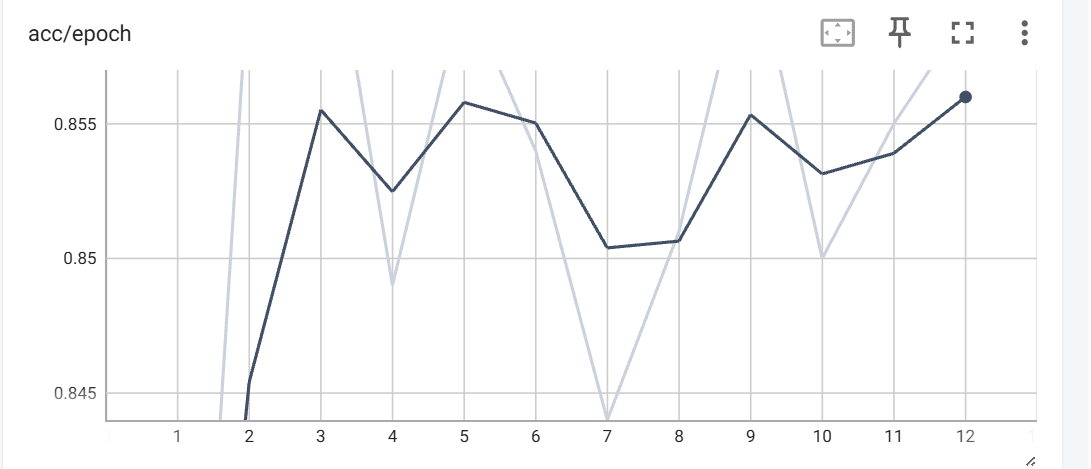
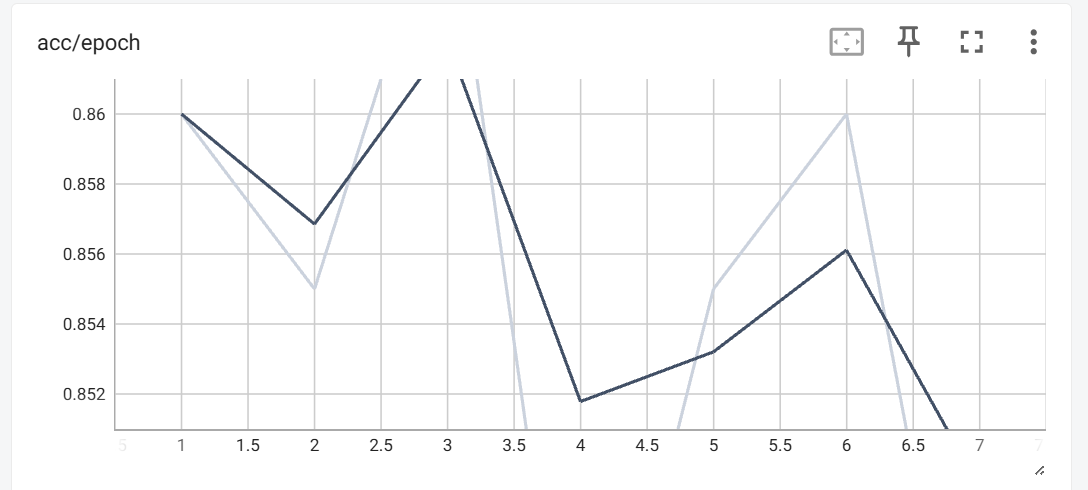
Add files via upload

diff --git a/train.py b/train.py
@@ -1,6 +1,6 @@
 import torch
 from transformers import AutoTokenizer
-
+from sklearn.metrics import precision_score, recall_score, f1_score
 import dataset,model_m,config
 from torch.utils.data import DataLoader
 from torch.utils.tensorboard import SummaryWriter
@@ -9,6 +9,8 @@ def verify(loader, model, device):
     model.eval()
     total_correct = 0
     total_num = 0
+    y_true = []
+    y_pre = []
     with torch.no_grad():
         for batch in loader:
             batch = {k: v.to(device) for k, v in batch.items()}
@@ -16,9 +18,14 @@ def verify(loader, model, device):
             per = torch.argmax(output, dim=-1)
             total_correct += (per == batch["labels"]).sum().item()
             total_num += batch["labels"].size(0)
+            y_true.extend(batch['labels'].cpu().numpy().tolist())
+            y_pre.extend(per.cpu().numpy().tolist())
         acc = total_correct / total_num
+        p_macro = precision_score(y_true, y_pre, average="macro", zero_division=0)
+        r_macro = recall_score(y_true, y_pre, average="macro", zero_division=0)
+        f1_macro = f1_score(y_true, y_pre, average="macro", zero_division=0)
         model.train()
-        return acc
+        return acc,p_macro,r_macro,f1_macro
 
 def train_T(loader, model, device, loss_fn, optim):
     model.train()
@@ -37,6 +44,10 @@ def train_T(loader, model, device, loss_fn, optim):
 # 加载数据集
 if __name__ == "__main__":
     writer = SummaryWriter('./log')
+    _,train_counter = dataset.pro_data(demo_config['train_path'])
+    all_label = sorted(train_counter.keys())
+    max_label = max(all_label)
+    num_labels = max_label + 1
     tokenizer = AutoTokenizer.from_pretrained(demo_config['model_path'])
     collate_fn = dataset.make_collate_fn(tokenizer, demo_config["max_length"])
     train = dataset.Mydata(demo_config['train_path'])
@@ -48,25 +59,40 @@ if __name__ == "__main__":
     device = torch.device('cuda' if torch.cuda.is_available() else 'cpu')
 
     model = model_m.Mymodel(model_path=demo_config["model_path"],
-                            num_labels=demo_config["num_labels"])
+                            num_labels=num_labels)
     model.to(device)
     optim = torch.optim.AdamW(model.parameters(),lr = demo_config['learning_rate'])
     loss_fn = torch.nn.CrossEntropyLoss()
     epoch = demo_config["epoch"]
     best_acc = 0.0
+    best_f1 = 0.0
+    patience = 3.0
+    early_stop = 0.0
     for e in range(epoch):
         print(f"===== Epoch {e+1}/{epoch} =====")
         avg_loss = train_T(train_loader,model, device, loss_fn, optim)
-        dev_acc = verify(dev_loader, model, device)
+        dev_acc, dev_p, dev_r, dev_f1 = verify(dev_loader, model, device)
         writer.add_scalar('aver/epoch', avg_loss, e + 1)
         writer.add_scalar('acc/epoch', dev_acc, e + 1)
-        print(f"train_loss:{avg_loss:.4f} | dev_acc:{dev_acc:.4f}")
+        writer.add_scalar('dev/p_macro', dev_p, e + 1)
+        writer.add_scalar('dev/r_macro', dev_r, e + 1)
+        writer.add_scalar('dev/f1_macro', dev_f1, e + 1)
+        print(f"train_loss:{avg_loss:.4f} | dev_acc:{dev_acc:.4f} | p_macro:{dev_p:.4f} | r_macro:{dev_r:.4f} | f1_macro:{dev_f1:.4f}")
         # 保存最优模型
-        if dev_acc > best_acc:
+        if dev_acc>best_acc :
             best_acc = dev_acc
+        if dev_f1 > best_f1:
+            best_f1= dev_f1
+            early_stop = 0.0
             torch.save(model.state_dict(),"./best_model.pth")
-            print(f"保存最优模型, best_acc:{best_acc:.4f}")
+            print(f"保存最优模型, best_f1:{best_f1:.4f}")
+        else:
+            early_stop += 1
+            if early_stop >patience:
+                print(f"连续{early_stop}轮没有提升，触发早停")
+                break
     print("训练结束，最优验证集精度：", best_acc)
+    writer.close()
 
 
 

diff --git a/dataset.py b/dataset.py
@@ -1,5 +1,6 @@
 from torch.utils.data import Dataset
 import torch
+from collections import Counter
 # 处理数据
 def make_collate_fn(tokenizer, max_length):
     def collate_fn(items):
@@ -17,6 +18,7 @@ def make_collate_fn(tokenizer, max_length):
     return collate_fn
 def pro_data(root):
     items = []
+    labels_counter = Counter()
     with open(root,'r',encoding='utf-8') as f:
         for line in f:
             line = line.strip()
@@ -24,6 +26,7 @@ def pro_data(root):
                 continue
             id,code,name,text,key = line.split('_!_',maxsplit=4)
             labels = int(code)-100
+            labels_counter[labels] += 1
             if key:
                 text = key +','+text
             else:
@@ -32,13 +35,13 @@ def pro_data(root):
                 "text":text,
                 "labels":labels
             })
-    return items
+    return items,labels_counter
 
 # 重写dataset方法
 class Mydata(Dataset):
     def __init__(self,root):
         super(Mydata,self).__init__()
-        self.items = pro_data(root)
+        self.items,_ = pro_data(root)
 
     def __len__(self):
         return len(self.items)

diff --git a/model_m.py b/model_m.py
@@ -1,4 +1,4 @@
-import torch
+
 import torch.nn as nn
 from transformers import BertModel
 

diff --git a/README.md b/README.md
@@ -1,6 +1,6 @@
 # demo1：基于 bert-base-chinese 的中文新闻文本分类
 
-本项目使用本地 `bert-base-chinese` 预训练模型，对中文新闻标题和关键词进行 17 分类。训练输入由新闻标题和关键词拼接而成，模型判断文本所属的新闻分类。
+本项目使用本地 `bert-base-chinese` 预训练模型，对中文新闻标题和关键词进行分类。训练输入由新闻标题和关键词拼接而成，模型判断文本所属的新闻分类。
 
 ## 框架组成
 
@@ -8,8 +8,8 @@
 demo1
 ├── demo_config.json        # 参数配置
 ├── config.py               # 读取 demo_config.json
-├── dataset.py              # 数据读取与 Dataset
-├── model_m.py              # tokenizer、batch 编码与模型
+├── dataset.py              # 数据读取与 Dataset,tokenizer
+├── model_m.py              # 模型
 ├── train.py                # 训练入口
 ├── test.py                 # 测试入口
 ├── requirements.txt        # 第三方依赖
@@ -23,7 +23,7 @@ demo1
 ## 各模块说明
 
 - `demo_config.json`
-  保存 `max_length`、数据路径、分类数、`batch_size`、学习率、epoch 数和本地预训练模型路径。
+  保存 `max_length`、数据路径、`batch_size`、学习率、epoch 数和本地预训练模型路径。
 
 - `config.py`
   提供 `load_config()`，统一读取 `demo_config.json`。
@@ -32,12 +32,11 @@ demo1
   `pro_data()` 解析原始数据，把分类码 `code - 100` 转成从 0 开始的标签。
   `Mydata` 继承 `torch.utils.data.Dataset`，保存文本和标签。
   `make_collate_fn(tokenizer, max_length)`：对一个 batch 的文本进行截断、填充和标签整理。
-
-- `model_m.py`
-  - `Mymodel`：使用 `BertModel + Linear`，取 BERT 输出的 CLS 向量，再经过全连接层输出 17 类 logits。
+- `model_m.py`。
+  - `Mymodel`：使用 `BertModel + Linear`，取 BERT 输出的 CLS 向量，再经过全连接层输出 logits。
 
 - `train.py`
-  加载配置和数据，完成训练和验证。`xl()` 执行一轮训练，`yz()` 在验证集上计算准确率，并在每个 epoch 使用 TensorBoard 记录指标；验证集准确率更高时保存 `best_model.pth`。
+  加载配置和数据，完成训练和验证。`train_T()` 执行一轮训练，`verify()` 在验证集上计算准确率,精确率，召回率，F1，并在每个 epoch 使用 TensorBoard 记录指标；验证集准确率更高时保存 `best_model.pth`。
 
 - `test.py`
   加载测试集和 `best_model.pth`，计算测试集准确率。
@@ -73,7 +72,6 @@ id_!_code_!_name_!_title_!_key
 
 - 预训练模型：本地 `./pretrain/bert-base-chinese`
 - 任务模型：`BertModel` 后接 `Linear`
-- 分类数：`num_labels=17`
 - 最大长度：`max_length=512`
 - 优化器：AdamW
 - 学习率：`1e-5`
@@ -99,19 +97,16 @@ tensorboard --logdir=./log
 
 在训练集 3000 条、验证集 1000 条、batch_size=12、学习率 1e-5 的条件下训练 12 轮：
 
-| Epoch | train_loss | dev_acc |
-| --- | ---: | ---: |
-| 1 | 1.0899 | 0.8190 |
-| 2 | 0.4081 | 0.8610 |
-| 3 | 0.2263 | 0.8650 |
-| 4 | 0.1359 | 0.8490 |
-| 5 | 0.0681 | 0.8600 |
-| 6 | 0.0437 | 0.8540 |
-| 7 | 0.0298 | 0.8440 |
-| 8 | 0.0161 | 0.8510 |
-| 9 | 0.0129 | 0.8620 |
-| 10 | 0.0218 | 0.8500 |
-| 11 | 0.0393 | 0.8550 |
-| 12 | 0.0191 | 0.8590 |
+| Epoch | train_loss | dev_acc | p_macro | r_macro | f1_macro |
+| --- | ---: | ---: |------:|--------:|---------:|
+| 1 | 1.0899 | 0.8190 | 0.8590|  0.8214 |0.8315|
+| 2 | 0.4081 | 0.8610 |0.8664|  0.8270 |0.8392|
+| 3 | 0.2263 | 0.8650 |0.8646|  0.8619 |0.8618|
+| 4 | 0.1359 | 0.8490 |0.8345|  0.8204 |0.8196|
+| 5 | 0.0681 | 0.8600 |0.8532|  0.8400 |0.8421|
+| 6 | 0.0437 | 0.8540 |0.8532|  0.8400 |0.8421|
+| 7 | 0.0298 | 0.8440 |0.8279|  0.8376 |  0.8232 |
 
-验证集最优准确率为 **86.50%**，出现在第 3 轮，`best_model.pth` 保存的是该轮权重。
+- 最优`dev_acc`: **0.8670**，最优`macro‑F1`: **0.8618**，出现在 Epoch 3
+- `best_model.pth` 保存第 3 轮模型权重
+- 早停 patience=4，第 7 轮触发早停终止训练
